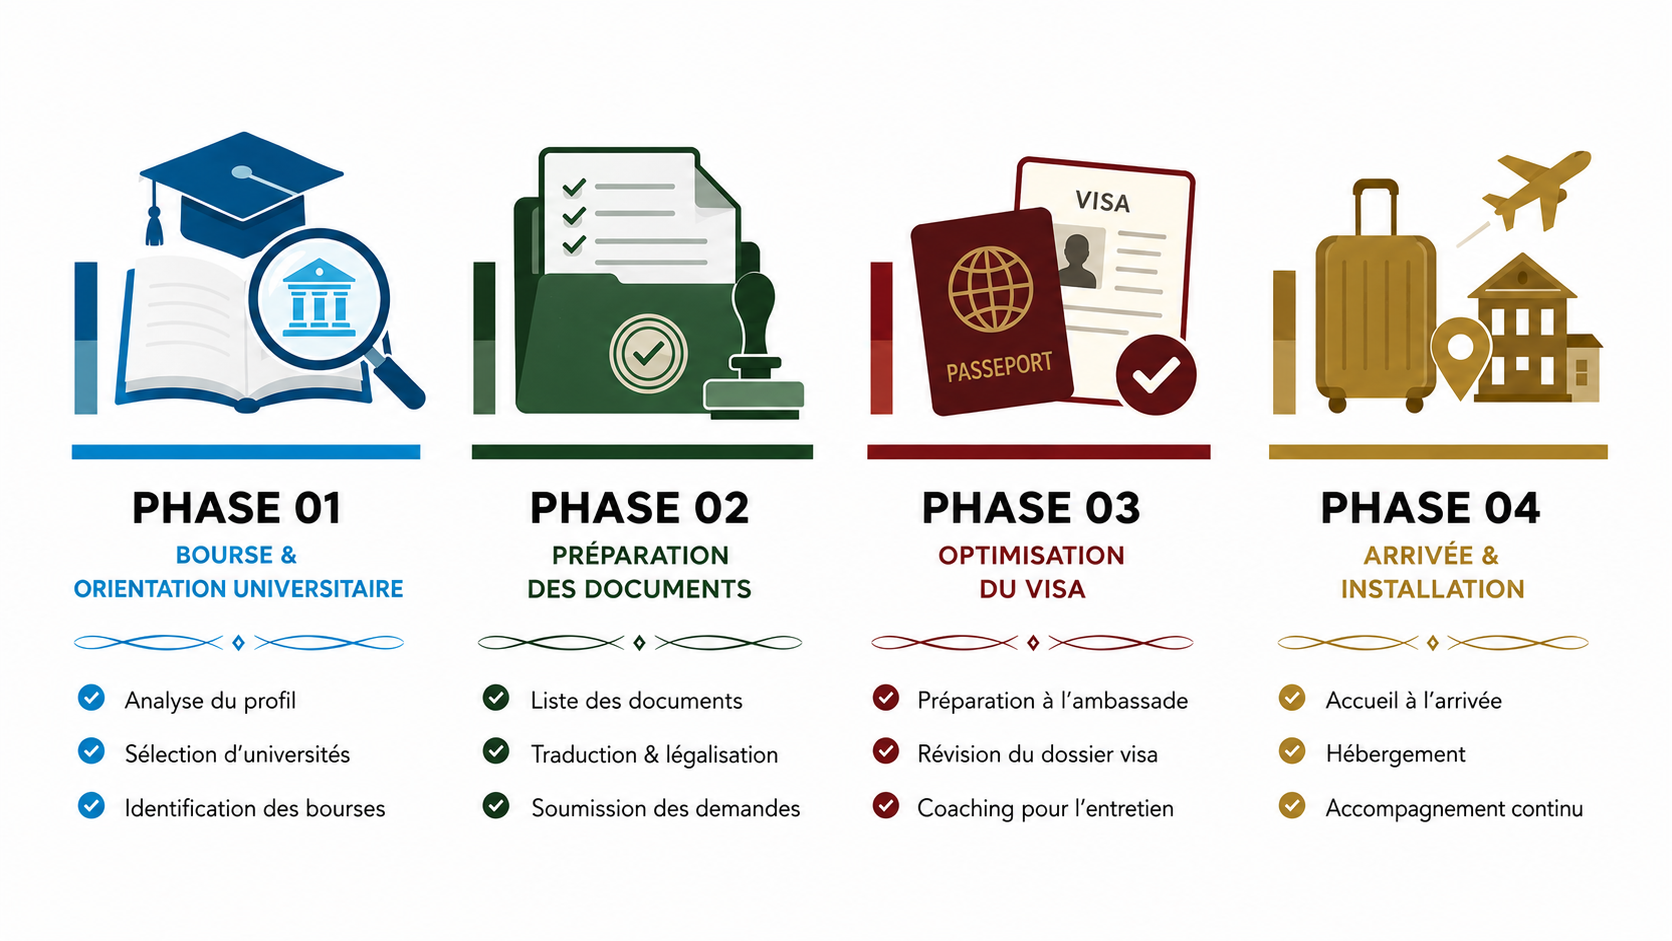
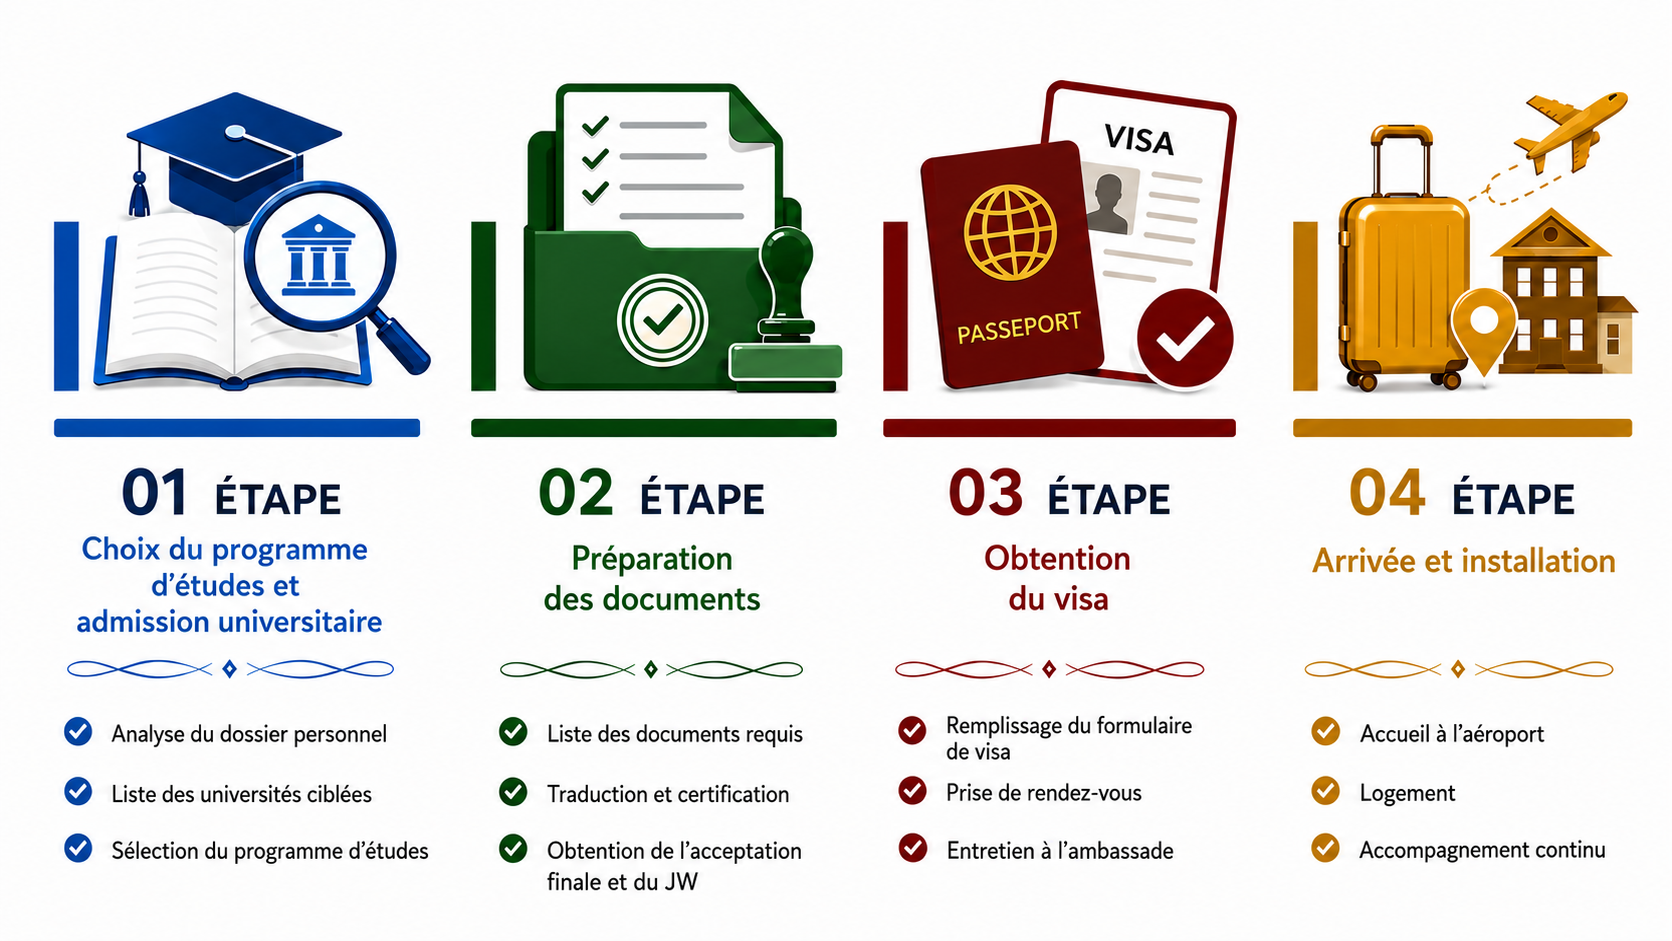
new

Changed region(s): [[0.0311, 0.0616, 0.9952, 0.9554], [0.7464, 0.678, 0.9641, 0.9245]]

diff --git a/src/pages/Home.tsx b/src/pages/Home.tsx
@@ -3,7 +3,6 @@ import {
   Play,
   ShieldCheck,
   PlayCircle,
-  MapPin,
 } from "lucide-react";
 import { AnimatedSectionHeader } from "@/components/AnimatedSectionHeader";
 import { Accordion, AccordionContent, AccordionItem, AccordionTrigger } from "@/components/ui/accordion";
@@ -82,14 +81,17 @@ function SectionConsultationCta({
 }
 
 function HeroTitle({ headline, highlight }: { headline: string; highlight: string }) {
+  if (!highlight) {
+    return <span className="whitespace-pre-line">{headline}</span>;
+  }
   const idx = headline.indexOf(highlight);
-  if (idx === -1) return <>{headline}</>;
+  if (idx === -1) return <span className="whitespace-pre-line">{headline}</span>;
   return (
-    <>
+    <span className="whitespace-pre-line">
       {headline.slice(0, idx)}
       <span className="text-emerald-400">{highlight}</span>
       {headline.slice(idx + highlight.length)}
-    </>
+    </span>
   );
 }
 
@@ -232,52 +234,26 @@ export default function Home() {
             className="order-1 block h-auto w-auto max-h-[min(7.5rem,20vh)] sm:max-h-32 md:max-h-40 max-w-[min(100%,16rem)] sm:max-w-[min(100%,20rem)] object-contain object-center -my-3 sm:-my-7 mb-2 sm:mb-3 drop-shadow-2xl"
           />
 
-          <motion.h1
-            key={`headline-${locale}`}
-            initial={reducedMotion ? false : localeSwap.initial}
-            animate={localeSwap.animate}
-            transition={{ ...localeSwap.transition, delay: 0.12 }}
-            className="order-2 text-[clamp(1.25rem,5vw+0.5rem,1.75rem)] sm:order-4 sm:text-2xl md:text-3xl lg:text-4xl font-bold tracking-tight text-white leading-snug sm:leading-tight mb-3 sm:mb-6 px-1 text-balance max-w-[20rem] sm:max-w-xl mx-auto"
-          >
-            <HeroTitle headline={c.hero.headline} highlight={c.hero.headlineHighlight} />
-          </motion.h1>
-
-          <motion.p
-            key={`subheadline-${locale}`}
-            initial={reducedMotion ? false : localeSwap.initial}
-            animate={localeSwap.animate}
-            transition={{ ...localeSwap.transition, delay: 0.18 }}
-            className="order-3 text-sm leading-relaxed sm:order-5 sm:text-sm md:text-base text-slate-300 max-w-[min(100%,22rem)] sm:max-w-md md:max-w-lg mx-auto mb-4 sm:mb-8 md:mb-10 px-1 text-balance"
-          >
-            {c.hero.subheadline}
-          </motion.p>
-
-          <motion.div
-            initial={{ opacity: 0, y: 20 }}
-            animate={{ opacity: 1, y: 0 }}
-            transition={{ delay: 0.28, duration: 0.5 }}
-            className="order-4 z-10 flex w-full max-w-md justify-center mx-auto mb-4 sm:order-7 sm:mb-0"
-          >
-            <ConsultationButton
-              variant="onDark"
-              testId="btn-hero-consultation"
-              className="w-full max-w-md min-h-[3.25rem] text-[0.9375rem] sm:min-h-12"
-            />
-          </motion.div>
-
           <motion.div
             initial="hidden"
             animate="visible"
             variants={staggerContainer}
             transition={{ delay: 0.12 }}
-            className="order-5 flex w-full max-w-md flex-col items-stretch gap-2 text-sm leading-snug sm:order-3 sm:max-w-none sm:flex-row sm:flex-wrap sm:items-center sm:justify-center sm:gap-x-6 sm:gap-y-3 sm:text-sm text-slate-300 font-medium mx-auto mb-4 sm:mb-6"
+            className="order-2 flex w-full max-w-md flex-col items-stretch gap-2 text-sm leading-snug sm:order-3 sm:max-w-none sm:flex-row sm:flex-wrap sm:items-center sm:justify-center sm:gap-x-6 sm:gap-y-3 sm:text-sm text-slate-300 font-medium mx-auto mb-3 sm:mb-6"
           >
             <motion.div
               variants={staggerItem}
-              className="flex items-center gap-2.5 justify-center rounded-full bg-white/5 px-3.5 py-2.5 sm:bg-transparent sm:px-0 sm:py-0"
+              className="flex items-center gap-2.5 justify-center rounded-full bg-white/5 px-3.5 py-2.5 text-white sm:bg-transparent sm:px-0 sm:py-0"
             >
-              <MapPin className="w-4 h-4 text-[#C8A84B] shrink-0" />
-              <span className="text-center sm:text-start">{c.hero.trust_badges[0]}</span>
+              <span className="text-emerald-400 font-bold shrink-0">{c.hero.students_served_highlight}</span>
+              <span className="text-center sm:text-start">{c.hero.students_served_rest}</span>
+            </motion.div>
+            <motion.div
+              variants={staggerItem}
+              className="flex items-center gap-2.5 justify-center rounded-full bg-white/5 px-3.5 py-2.5 text-white sm:bg-transparent sm:px-0 sm:py-0"
+            >
+              <span className="text-emerald-400 font-bold shrink-0">{c.hero.experience_highlight}</span>
+              <span className="text-center sm:text-start">{c.hero.experience_rest}</span>
             </motion.div>
             <motion.div
               variants={staggerItem}
@@ -290,15 +266,48 @@ export default function Home() {
                 loading="lazy"
                 decoding="async"
               />
-              <span className="text-center sm:text-start [overflow-wrap:anywhere]">{c.hero.trust_badges[1]}</span>
+              <span className="text-center sm:text-start [overflow-wrap:anywhere]">{c.hero.trust_badges[0]}</span>
             </motion.div>
             <motion.div
               variants={staggerItem}
               className="flex items-center gap-2.5 justify-center rounded-full bg-white/5 px-3.5 py-2.5 text-white sm:bg-transparent sm:px-0 sm:py-0"
             >
               <ShieldCheck className="w-4 h-4 text-[#1A6B8A] shrink-0" />
-              <span className="text-center sm:text-start">{c.hero.trust_badges[2]}</span>
+              <span className="text-center sm:text-start">{c.hero.trust_badges[1]}</span>
             </motion.div>
+          </motion.div>
+
+          <motion.h1
+            key={`headline-${locale}`}
+            initial={reducedMotion ? false : localeSwap.initial}
+            animate={localeSwap.animate}
+            transition={{ ...localeSwap.transition, delay: 0.12 }}
+            className="order-3 text-[clamp(1.125rem,4.5vw+0.5rem,1.625rem)] sm:order-4 sm:text-xl md:text-2xl lg:text-3xl font-bold tracking-tight text-white leading-snug sm:leading-tight mb-3 sm:mb-6 px-1 text-balance max-w-[min(100%,26rem)] sm:max-w-2xl mx-auto"
+          >
+            <HeroTitle headline={c.hero.headline} highlight={c.hero.headlineHighlight} />
+          </motion.h1>
+
+          <motion.p
+            key={`subheadline-${locale}`}
+            initial={reducedMotion ? false : localeSwap.initial}
+            animate={localeSwap.animate}
+            transition={{ ...localeSwap.transition, delay: 0.18 }}
+            className="order-4 text-sm leading-relaxed sm:order-5 sm:text-sm md:text-base text-slate-300 max-w-[min(100%,22rem)] sm:max-w-md md:max-w-lg mx-auto mb-4 sm:mb-8 md:mb-10 px-1 text-balance"
+          >
+            {c.hero.subheadline}
+          </motion.p>
+
+          <motion.div
+            initial={{ opacity: 0, y: 20 }}
+            animate={{ opacity: 1, y: 0 }}
+            transition={{ delay: 0.28, duration: 0.5 }}
+            className="order-5 z-10 flex w-full max-w-md justify-center mx-auto mb-4 sm:order-7 sm:mt-6 sm:mb-0"
+          >
+            <ConsultationButton
+              variant="onDark"
+              testId="btn-hero-consultation"
+              className="w-full max-w-md min-h-[3.25rem] text-[0.9375rem] sm:min-h-12"
+            />
           </motion.div>
 
           <motion.div
@@ -314,10 +323,11 @@ export default function Home() {
           </motion.div>
 
           <motion.div
+            id="vsl-hero"
             initial={{ opacity: 0, y: 30 }}
             animate={{ opacity: 1, y: 0 }}
             transition={{ delay: 0.4, duration: 0.6 }}
-            className="order-7 w-full max-w-3xl sm:order-6"
+            className="order-7 mt-5 w-full max-w-3xl scroll-mt-24 sm:order-6 sm:mt-0 sm:mb-0"
           >
             <VideoEmbed
               label={videoCaption(c.hero.video.label, c.hero.video.duration)}
@@ -342,10 +352,12 @@ export default function Home() {
             <FourPhaseDiagram />
 
             <motion.div
+              id="vsl-process"
               variants={fadeUp}
               initial="hidden"
               whileInView="visible"
               viewport={viewportOnce}
+              className="scroll-mt-24"
             >
               <VideoEmbed
                 label={videoCaption(c.process.video.label, c.process.video.duration)}
@@ -358,7 +370,10 @@ export default function Home() {
       </section>
 
       {/* 3. STUDENT RESULTS */}
-      <section className="py-12 sm:py-20 md:py-24 bg-[#F7F8FA] text-[#0E2340] overflow-hidden">
+      <section
+        id="vsl-testimonials"
+        className="py-12 sm:py-20 md:py-24 bg-[#F7F8FA] text-[#0E2340] overflow-hidden scroll-mt-24"
+      >
         <div className="max-w-7xl mx-auto px-4 sm:px-6 lg:px-8">
           <AnimatedSectionHeader
             title={c.testimonials.section_title}
@@ -516,18 +531,20 @@ export default function Home() {
             {faqVideoPills.map((item) => {
               const v = item.video!;
               const pillLabel = v.duration ? `${v.label} · ${v.duration}` : v.label;
+              const href = v.anchor ? `#${v.anchor}` : "#";
               return (
-              <motion.div
+              <motion.a
                 key={item.question}
+                href={href}
                 variants={staggerItem}
                 whileHover={{ y: -3, scale: 1.02 }}
                 whileTap={{ scale: 0.98 }}
                 transition={springSnappy}
-                className="bg-slate-900 rounded-xl p-4 sm:p-3 min-h-12 sm:min-h-0 flex items-center justify-between gap-3 text-white text-sm sm:text-xs font-semibold cursor-pointer touch-manipulation active:bg-slate-800"
+                className="bg-slate-900 rounded-xl p-4 sm:p-3 min-h-12 sm:min-h-0 flex items-center justify-between gap-3 text-white text-sm sm:text-xs font-semibold no-underline touch-manipulation active:bg-slate-800 hover:bg-slate-800"
               >
                 <span className="leading-snug">{pillLabel}</span>
                 <PlayCircle className="w-4 h-4 text-[#C8A84B] shrink-0" />
-              </motion.div>
+              </motion.a>
               );
             })}
           </motion.div>

diff --git a/src/index.css b/src/index.css
@@ -227,6 +227,10 @@ body.locale-ar {
 }
 
 /* Edge-to-edge horizontal strips (carousels + university marquee) */
+html {
+  scroll-behavior: smooth;
+}
+
 .carousel-full-bleed {
   width: 100vw;
   max-width: 100vw;

diff --git a/src/assets/four-phase/index.ts b/src/assets/four-phase/index.ts
@@ -1,5 +1,5 @@
 import type { Locale } from "@/i18n/types";
-import fourPhaseAr from "../ar.png";
+import fourPhaseAr from "../ARABIC.png";
 import fourPhaseEn from "../en.png";
 import fourPhaseFr from "../fr.png";
 